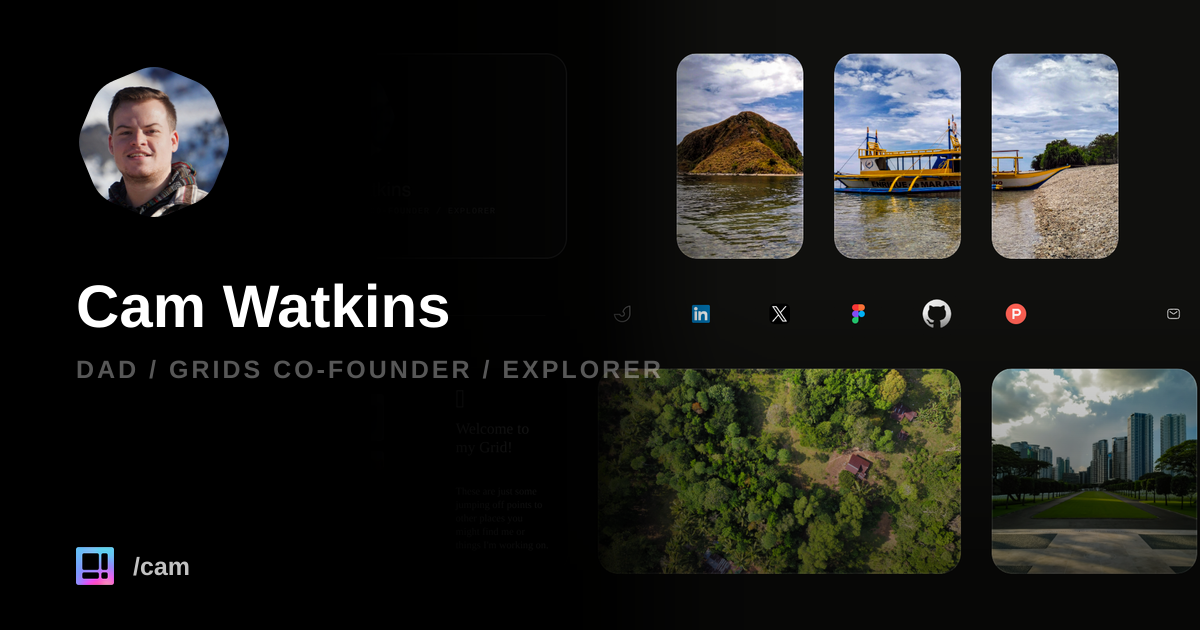
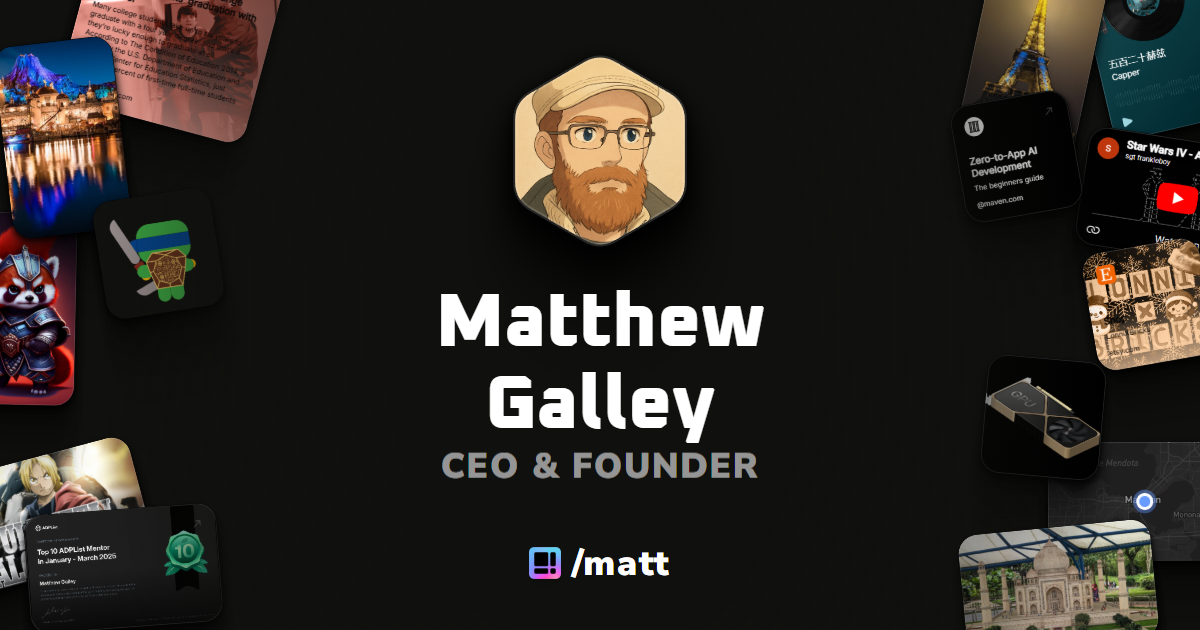
Update Open Graph preview details and modify button text for clarity

diff --git a/src/components/HomePage.vue b/src/components/HomePage.vue
@@ -127,8 +127,8 @@
               <img src="/og-preview-placeholder.png" alt="Grid preview" />
             </div>
             <div class="mkt__og-meta">
-              <span class="mkt__og-site">cam's grid</span>
-              <span class="mkt__og-title">https://grids.so/cam</span>
+              <span class="mkt__og-site">matt's grid</span>
+              <span class="mkt__og-title">https://grids.so/matt</span>
             </div>
           </div>
           <!-- <div class="mkt__share-pill">

diff --git a/src/components/LayoutTitleEditor.vue b/src/components/LayoutTitleEditor.vue
@@ -17,7 +17,7 @@
   <div v-else-if="!isAuthenticated" class="cta-buttons" ref="ctaRef">
     <router-link class="cta-btn cta-btn--primary" to="/login">
       <img src="/grids_logo.png" alt="" class="cta-logo" />
-      Claim my Grid
+      Claim your Grid
     </router-link>
     <router-link class="cta-btn cta-btn--ghost" to="/login">
       Login
